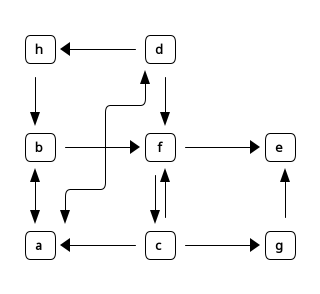
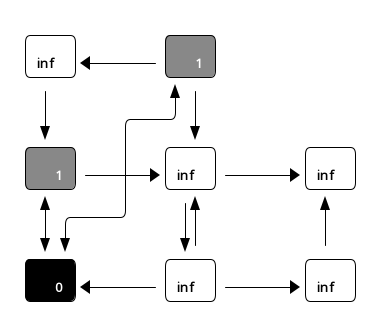
Uebung 11

Changed region(s): [[0.0625, 0.0918, 0.9375, 0.9184]]

diff --git a/Loesungen/Uebungsblatt_11.md b/Loesungen/Uebungsblatt_11.md
@@ -11,14 +11,42 @@ date:
 > 
 > Fügen Sie die Schlüssel $112, 121, 17, 356, 202, 876, 394, 26, 742, 652$ in der angegebenen Reihenfolge nach dem Schema offener Addressierung mit linearem Ausprobieren in die Hashtabelle ein. (Es genügt, das Endergebnis aller Einfügeoperationen anzugeben.)
 
+| 1   | 2   | 3 | 4   | 5   | 6  | 7   | 8  | 9   | 10  | 11 |
+|:---:|:---:|:-:|:---:|:---:|:--:|:---:|:--:|:---:|:---:|:--:|
+| 121 | 112 |   | 356 | 202 | 17 | 876 | 26 | 394 | 742 |    |
+
 ## 2. Breitensuche
-> Führen Sie auf dem gegebenen Graphen den Breitensuche-Algorithmus aus. Gehen Sie dabei so vor, dass der Knoten a als Startknoten genutzt wird und bei mehreren benachbarten Knoten der mit dem lexikographisch kleineren Buchstaben zuerst der Warteschlange hinzugefügt wird.
+> Führen Sie auf dem gegebenen Graphen den Breitensuche-Algorithmus aus. Gehen Sie dabei so vor, dass der Knoten $a$ als Startknoten genutzt wird und bei mehreren benachbarten Knoten der mit dem lexikographisch kleineren Buchstaben zuerst der Warteschlange hinzugefügt wird.
 > 
 > Skizzieren Sie für jeden Schritt der Traversierung den Zustand der Breitensuche. Geben Sie dazu jeweils die Färbung der Knoten und den Inhalt der Warteschlangen-Datenstruktur an.
 
-![](./img/11.2.1.png)
+![vorher: Q={}](./img/11.2.0.png)
 
-## 3.
+#### 1. $a$
+![a besucht: Q={b, d}](./img/11.2.1.png)
+
+#### 2. $b$
+![b besucht: Q={d, f}](./img/11.2.2.png)
+
+#### 3. $d$
+![d besucht: Q={f, h}](./img/11.2.3.png)
+
+#### 4. $f$
+![f besucht: Q={h, c, e}](./img/11.2.4.png)
+
+#### 5. $h$
+![h besucht: Q={c, e}](./img/11.2.5.png)
+
+#### 6. $c$
+![c besucht: Q={e, g}](./img/11.2.6.png)
+
+#### 7. $e$
+![e besucht: Q={e, g}](./img/11.2.7.png)
+
+#### 8. $g$
+![g besucht: Q={}](./img/11.2.8.png)
+
+## 3. Kreisfreiheit
 > Ein ungerichteter Graph heißt _kreisfrei_, wenn es für jedes Knotenpaar $u, v \in V \times V$ nur einen Pfad von $v$ nach $u$ gibt.
 
 ### a)
